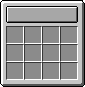
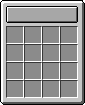
change: Combine matrix is now 16 slots

diff --git a/src/main/java/com/gildedgames/orbis/client/gui/GuiFillMenu.java b/src/main/java/com/gildedgames/orbis/client/gui/GuiFillMenu.java
@@ -77,12 +77,12 @@ public class GuiFillMenu extends GuiFrameCreative
 
 		this.forgeButton = GuiFactory.createForgeButton();
 
-		this.forgeButton.dim().mod().pos(center).center(true).addY(72 - 15).addX(60).flush();
+		this.forgeButton.dim().mod().pos(center).center(true).addY(72 - 6).addX(60).flush();
 
-		this.matrix = new GuiTexture(Dim2D.build().width(85).height(87).center(true).pos(center).addX(60).addY(-15).flush(), MATRIX_ICON);
-		this.flow = new GuiTexture(Dim2D.build().width(8).height(14).center(true).pos(center).addX(60).addY(52 - 15).flush(), FLOW_ICON);
+		this.matrix = new GuiTexture(Dim2D.build().width(85).height(105).center(true).pos(center).addX(60).addY(-15).flush(), MATRIX_ICON);
+		this.flow = new GuiTexture(Dim2D.build().width(8).height(14).center(true).pos(center).addX(60).addY(52 - 6).flush(), FLOW_ICON);
 
-		this.combineTitle = new GuiText(Dim2D.build().pos(center).centerX(true).addX(60).addY(-49).flush(),
+		this.combineTitle = new GuiText(Dim2D.build().pos(center).centerX(true).addX(60).addY(-49 - 9).flush(),
 				new Text(new TextComponentString("Combine"), 1.0F));
 
 		this.addChild(this.matrix);
@@ -127,15 +127,15 @@ public class GuiFillMenu extends GuiFrameCreative
 		{
 			super(player, gui);
 
-			this.slots = new SlotForge[3 * 4];
+			this.slots = new SlotForge[4 * 4];
 
 			final int indexOffset = 55;
 
-			for (int i = 0; i < 3; ++i)
+			for (int i = 0; i < 4; ++i)
 			{
 				for (int j = 0; j < 4; ++j)
 				{
-					final SlotForge slot = new SlotForge(forgeInventory, indexOffset, indexOffset + (i * 4 + j), 222 + j * 18, 36 + i * 18);
+					final SlotForge slot = new SlotForge(forgeInventory, indexOffset, indexOffset + (i * 4 + j), 222 + j * 18, 27 + i * 18);
 
 					this.addSlotToContainer(slot);
 
